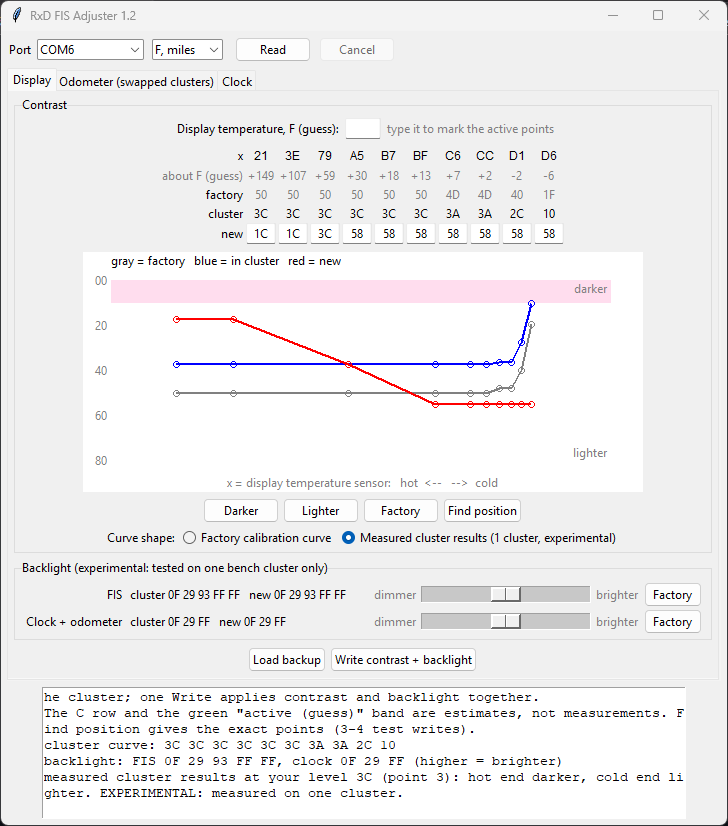
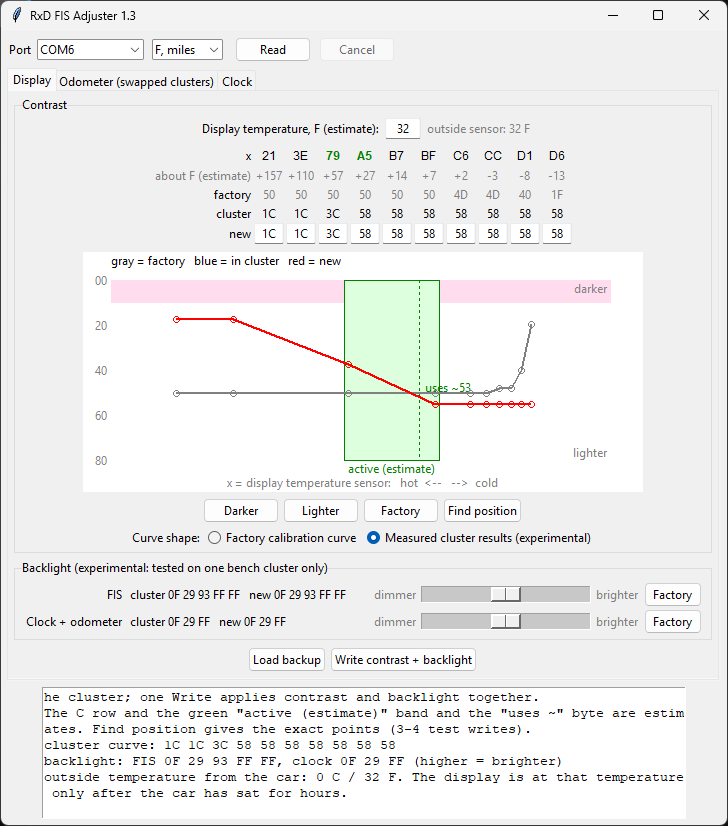
1.3: display byte at the current temperature, freezer-fit temperature scale, D13 clock, in-car cold check of the measured shape

diff --git a/fis_adjuster.py b/fis_adjuster.py
@@ -11,7 +11,7 @@ CLI:  python fis_adjuster.py read --port COM3
       python fis_adjuster.py backlight --port COM3 fis 0x10 [--write]        (EXPERIMENTAL; fis or clock, positive = brighter)
       python fis_adjuster.py clock --port COM3 --write                       (set the cluster clock to this PC's time)
 
-x is the display temperature sensor (hotter = lower x, measured). The C figures the app shows are guesses.
+x is the display temperature sensor (hotter = lower x, measured). The C figures the app shows are estimates from a freezer-run fit.
 
 Needs: Python 3, pyserial (pip install pyserial), a dumb FTDI KKL K-line cable. Tkinter for the GUI.
 EEPROM 0x26A: 0A, 10 x breakpoints (0x26B-0x274), 10 contrast bytes (0x275-0x27E). Lower byte = darker pixels.
@@ -22,7 +22,7 @@ import serial
 FACTORY = [0x50, 0x50, 0x50, 0x50, 0x50, 0x50, 0x4D, 0x4D, 0x40, 0x1F]
 XAXIS = [0x21, 0x3E, 0x79, 0xA5, 0xB7, 0xBF, 0xC6, 0xCC, 0xD1, 0xD6]
 FLOOR = 0x10            # 0x10 already ghosts at room temperature
-VERSION = '1.2'
+VERSION = '1.3'
 # Measured shape, EXPERIMENTAL: freezer and heated-bed runs on ONE cluster (bench D11, 2026-11-14). Offsets from point 3
 # (x 0x79, about 15 C): the hot points get 0x20 more drive, the cold points 0x1C less. Hotter needed more drive all the way
 # from -8 to 36 C, and cold overdrive washed the display out, so the factory's extra cold-end drive is dropped.
@@ -46,9 +46,9 @@ CLUSTER_MANAGED = (0x294, 0x6E9)   # write counter and a byte the cluster flips 
 BACKUP_DIR = 'backups'
 
 # x is the reading of the display's temperature sensor. Measured: hotter = lower x, colder = higher x.
-# The C figures are GUESSES, not a calibration: an NTC divider with B = 3500 K is assumed, pinned to one in-car
-# reading (x 0x79 with the cabin taken as 15 C). Expect +-5 C near room temperature and worse at the ends.
-GUESS_B, GUESS_X, GUESS_C = 3500.0, 0x79, 15.0
+# The C figures are ESTIMATES: an NTC divider fitted to a freezer warm-up run on the bench D11 (2026-11-14: start -18 C,
+# room 22 C, 36 min time constant). Within a few C from 0 to 40 C, rougher at the ends. (Before: B 3500 pinned to x 0x79 = 15 C.)
+GUESS_B, GUESS_X, GUESS_C = 3211.0, 106.9, 20.0
 
 
 def x_to_c(x):
@@ -62,7 +62,7 @@ def c_to_x(t):
 
 
 def active_for(t):
-    """Indices of the curve points the cluster interpolates between at display temperature t (C). A guess, see above."""
+    """Indices of the curve points the cluster interpolates between at display temperature t (C). An estimate, see above."""
     x = c_to_x(t)
     if x <= XAXIS[0]:
         return [0]
@@ -74,6 +74,16 @@ def active_for(t):
 
 assert abs(x_to_c(GUESS_X) - GUESS_C) < 1e-6 and abs(c_to_x(x_to_c(0xA5)) - 0xA5) < 1e-6 and active_for(20) == [1, 2] and active_for(-40) == [9]
 GUESS_ROW = ' '.join('%+3.0f' % x_to_c(x) for x in XAXIS)
+
+
+def byte_at(c, t):
+    """The contrast byte the cluster uses at display temperature t (C): linear between points, like the cluster. An estimate."""
+    x = min(max(c_to_x(t), XAXIS[0]), XAXIS[-1])
+    i = min(max(k for k in range(10) if XAXIS[k] <= x), 8)
+    return round(c[i] + (c[i + 1] - c[i]) * (x - XAXIS[i]) / (XAXIS[i + 1] - XAXIS[i]))
+
+
+assert byte_at([0x3C] * 10, 0) == 0x3C and byte_at(FACTORY, 80) == 0x50 and byte_at(FACTORY, -40) == 0x1F
 
 # Odometer: a ring of 8 little-endian words at 0x042. Each word is the inverse of a counter in 16 km units, and the
 # number of words one step ahead adds 2 km each. Stored value = shown km + ODO_OFS.
@@ -334,6 +344,7 @@ class Cluster:
             self.log('write not acknowledged, bytes unchanged, trying once more')
 
     CLOCK = 0x0213      # CPU RAM: year, month, day, hour, minute, second (binary; bit 7 of each is a flag). From the D11 firmware.
+    CLOCKS = (0x0213, 0x0211)   # D11, D13 (found 2026-11-19 in the car): read_clock uses whichever one ticks
 
     def read_clock(self):
         """(datetime, flag bits) of the cluster's running clock, or None if those bytes are not a clock on this firmware.
@@ -350,15 +361,18 @@ class Cluster:
         if getattr(self, 'clock_ok', None) is False:
             return None
         try:
-            a = rd()
-            if a and not getattr(self, 'clock_ok', None):       # prove once that it ticks before ever writing there
-                time.sleep(1.5)
-                b = rd()
-                self.clock_ok = bool(b) and 1 <= (b[0] - a[0]).total_seconds() <= 3
-                a = b
-            if not a:
+            if getattr(self, 'clock_ok', None) is None:          # prove once that it ticks before ever writing there
+                for self.CLOCK in self.CLOCKS:
+                    a = rd()
+                    if a:
+                        time.sleep(1.5)
+                        b = rd()
+                        if b and 1 <= (b[0] - a[0]).total_seconds() <= 3:
+                            self.clock_ok = True
+                            return b
                 self.clock_ok = False
-            return a if self.clock_ok else None
+                return None
+            return rd()
         except Exception:
             self.clock_ok = False
             return None
@@ -691,7 +705,12 @@ def gui():
         if a:                                                 # where the cluster is on the curve: exact (Find position) or a guess from the temperature
             x0, x1 = px(XAXIS[a[0]]) - 4, px(XAXIS[a[-1]]) + 4
             cv.create_rectangle(x0, py(0), x1, py(0x80), fill='#dfd', outline='green')
-            cv.create_text((x0 + x1) / 2, py(0x80) + 8, text='active now' if state['exact'] else 'active (guess)', fill='green')
+            cv.create_text((x0 + x1) / 2, py(0x80) + 8, text='active now' if state['exact'] else 'active (estimate)', fill='green')
+        c = new_curve()
+        if c and state.get('tc') is not None and not state['exact']:   # the byte the display uses at that temperature
+            xt, b = px(c_to_x(state['tc'])), byte_at(c, state['tc'])
+            cv.create_line(xt, py(0), xt, py(0x80), fill='green', dash=(3, 3))
+            cv.create_text(xt + 6, py(b) - 10, text='uses ~%02X' % b, anchor='w', fill='green')
         for i, xl in enumerate(x_lbl):
             xl.config(fg='green' if i in a else 'black', font=('TkDefaultFont', 9, 'bold' if i in a else 'normal'))
         cv.create_text(px(255) - 4, py(0) + 8, text='darker', anchor='e', fill='gray')
@@ -779,8 +798,8 @@ def gui():
         was = state['us']
         state['us'] = units.get().startswith('F')
         u = 'F' if state['us'] else 'C'
-        temp_lbl.config(text='  Display temperature, %s (guess):' % u)
-        c_name.config(text='about %s (guess)' % u)
+        temp_lbl.config(text='  Display temperature, %s (estimate):' % u)
+        c_name.config(text='about %s (estimate)' % u)
         for i, l in enumerate(c_lbl):
             l.config(text='%+.0f' % show(x_to_c(XAXIS[i])))
         odo_unit.config(text='miles' if state['us'] else 'km')
@@ -853,7 +872,8 @@ def gui():
             t = float(temp.get())
         except ValueError:
             return
-        state['active'], state['exact'] = active_for((t - 32) / 1.8 if state['us'] else t), False
+        state['tc'] = (t - 32) / 1.8 if state['us'] else t
+        state['active'], state['exact'] = active_for(state['tc']), False
         draw()
     temp.bind('<KeyRelease>', mark_temp)
 
@@ -951,7 +971,7 @@ def gui():
     srow.pack()
     ttk.Label(srow, text='Curve shape:').pack(side='left', padx=4)
     ttk.Radiobutton(srow, text='Factory calibration curve', variable=shape_var, value='factory', command=shape).pack(side='left')
-    ttk.Radiobutton(srow, text='Measured cluster results (1 cluster, experimental)', variable=shape_var, value='measured',
+    ttk.Radiobutton(srow, text='Measured cluster results (experimental)', variable=shape_var, value='measured',
                     command=shape).pack(side='left', padx=6)
 
     ttk.Button(top, text='Read', command=do_read).pack(side='left', padx=8)
@@ -973,7 +993,7 @@ def gui():
     draw()
     log('Read first. Darker/Lighter move the whole contrast curve by 8. Write makes a backup, writes, and verifies.')
     log('Backlight is experimental. The sliders move a table up or down from what is in the cluster; one Write applies contrast and backlight together.')
-    log('The C row and the green "active (guess)" band are estimates, not measurements. Find position gives the exact points (3-4 test writes).')
+    log('The C row and the green "active (estimate)" band and the "uses ~" byte are estimates. Find position gives the exact points (3-4 test writes).')
     def on_close():
         if not state['busy']:
             return root.destroy()
@@ -1017,11 +1037,11 @@ def main():
         cur, name, outside, km, bl = read_curve(a.port)
         print('cluster     :', name)
         print('x           :', hx(XAXIS), '  (display temperature sensor: left = hot, right = cold)')
-        print('about C     :', GUESS_ROW, '  (GUESS, not calibrated)')
+        print('about C     :', GUESS_ROW, '  (estimate, from a freezer-run fit)')
         if outside is not None:
             act = active_for(outside)
-            print('outside temp: %.0f C from the car. If the car has sat for hours, the active points are about x %s (guess)'
-                  % (outside, ' and '.join('%02X' % XAXIS[i] for i in act)))
+            print('outside temp: %.0f C from the car. If the car has sat for hours, the active points are about x %s and the display'
+                  ' uses about %02X (estimate)' % (outside, ' and '.join('%02X' % XAXIS[i] for i in act), byte_at(cur, outside)))
         print('curve now   :', hx(cur), '  (factory', hx(FACTORY) + ', lower = darker)')
         if km is not None:
             print('odometer    : %d km = %d mi  (stored value; the dash can read a mile or two different)' % (km, round(km / KM_PER_MI)))

diff --git a/README.md b/README.md
@@ -26,9 +26,9 @@ The cluster EEPROM (93C86) holds a 10-point contrast curve at 0x26A: a count (`0
 
 | x | 21 | 3E | 79 | A5 | B7 | BF | C6 | CC | D1 | D6 |
 |---|---|---|---|---|---|---|---|---|---|---|
-| about C (estimate) | +65 | +42 | +15 | -1 | -8 | -11 | -14 | -16 | -19 | -21 |
+| about C (estimate) | +69 | +43 | +14 | -3 | -10 | -14 | -17 | -20 | -22 | -25 |
 
-The temperatures are estimates. A freezer run backs them to within a few degrees from 0 to 40 C; the ends are rougher.
+The temperatures are estimates, fitted to a freezer warm-up run: within a few degrees from 0 to 40 C, rougher at the ends.
 
 ![sweep](images/contrast_sweep.gif)
 
@@ -69,7 +69,7 @@ The bench cluster went from 0x50 to 0x20, the car one from 0x50 to 0x3C.
 
 Also in the window:
 - **Graph:** gray = factory, blue = in the cluster, red = new. Up is darker. The pink band is the 0x10 floor the app never writes below.
-- **Active points (green band):** type the display temperature to estimate them, or use **Find position** (3-4 test writes, asks whether text shows, puts your curve back).
+- **Active points (green band):** in a car, **Read** fills in the outside temperature from the car's sensor (only right after the car has sat for hours; type your own once the cabin warms up). The graph then marks the active points and the byte the display uses at that temperature ("uses ~53"). **Find position** gives the exact points instead (3-4 test writes, asks whether text shows, puts your curve back).
 - **Cancel:** stops a Read or Write that is still trying to connect. Once connected, a job always finishes.
 - **Load backup** + **Write** puts an old contrast curve and backlight back.
 
@@ -87,7 +87,11 @@ How it was measured: the bench cluster came out of a freezer and was swept throu
 
 From the freezer run: rows are display temperatures, columns are contrast bytes, and the blue box is the cleanest one. It moves one column to the right (more drive) for every few degrees warmer. At -8 C, more drive than 0x40 washes the whole display out (top right).
 
-**Measured on one cluster only** (an old, faded D11). A healthy panel may need a gentler slope. Set your level first, then try it, and check on a hot day and a cold morning.
+![in-car D13 at 0 C](images/car_cold_before_after.jpg)
+
+Checked on a second cluster, the D13 in my car, at 0 C outside. Left: my old curve (`3C` through the middle). The FIS is overdriven: washed-out background and a ghost grid. Right: the measured shape at the same level, clean.
+
+**Measured on one cluster and checked on a second, both in the cold.** The hot end is not checked in a car yet. Set your level first, then try it, and check on a hot day and a cold morning.
 
 ### Backlight (experimental)
 
@@ -97,7 +101,7 @@ Two sliders: one for the FIS, one for the clock and odometer. The middle is what
 
 ### Clock
 
-The **Clock** tab sets the cluster's time and date from the PC. It is a memory write, not an EEPROM write. After a battery disconnect the cluster always starts at 12:00, 1.01.1999 (fixed in its firmware). Tested on the bench D11 only. The app checks that it has found a ticking clock before it writes.
+The **Clock** tab sets the cluster's time and date from the PC. It is a memory write, not an EEPROM write. After a battery disconnect the cluster always starts at 12:00, 1.01.1999 (fixed in its firmware). Works on the D11 and the D13, which keep the clock at different addresses: the app uses whichever one ticks, and refuses if neither does. Every contrast write restarts the display, which resets the clock, so the app puts the time back afterwards.
 
 ### Odometer, for swapped clusters
 
@@ -127,7 +131,7 @@ python fis_adjuster.py clock --port COM3 --write
 - The D13's factory curve is `50 50 50 50 50 50 4E 4E 40 1F`. The app's "factory" row shows the D11 values, so use your own backup to return to stock.
 - The cluster counts EEPROM writes in byte 0x294.
 - **Odometer storage:** 8 little-endian words at 0x042, each the inverse of a 16 km counter. Stored = shown km + 52.
-- **Protocol:** KW1281 at 0x17, mode login `1B 80 "loginas9"`, then 19200 8E1 packets `D1 <len> <cmd> <data> <xor>`: `72`/`77` read/write 16 EEPROM bytes, `53 9D <password>` log in, `53 82` restart the display. `52`/`57` read/write CPU memory; the D11 clock is at RAM 0x0213.
+- **Protocol:** KW1281 at 0x17, mode login `1B 80 "loginas9"`, then 19200 8E1 packets `D1 <len> <cmd> <data> <xor>`: `72`/`77` read/write 16 EEPROM bytes, `53 9D <password>` log in, `53 82` restart the display. `52`/`57` read/write CPU memory; the clock is at RAM 0x0213 on the D11 and 0x0211 on the D13.
 - **Bench tip:** switching the cluster's 12 V with the cable plugged in can lock up some KKL cables until they are replugged.
 
 Use at your own risk. Keep your backup file.
@@ -137,6 +141,12 @@ Use at your own risk. Keep your backup file.
 MIT, see [LICENSE](LICENSE). You can use, change and share it, including in other tools, as long as you keep the copyright notice and credit RxD FIS Adjuster by RENOxDECEPTION.
 
 ## Changes
+
+**1.3 (2026-11-19)**
+- The graph shows the byte the display uses at the current temperature ("uses ~53"), from the car's outside sensor or a temperature you type. The command line `read` prints it too.
+- Temperature estimates now come from a freezer-run fit instead of a single in-car reading.
+- Clock works on the D13 too (its clock is at a different address), so contrast writes on a D13 no longer leave the dash at 12:00 1.01.1999.
+- Measured shape checked on a second cluster: the in-car D13 at 0 C. With the old flat curve the FIS was overdriven (washed-out background, ghost grid); with the measured shape it is clean.
 
 **1.2 (2026-11-14)**
 - A3 8L VDO clusters (8L0 920 9xx) accepted: **experimental and untested**, like the C5.
